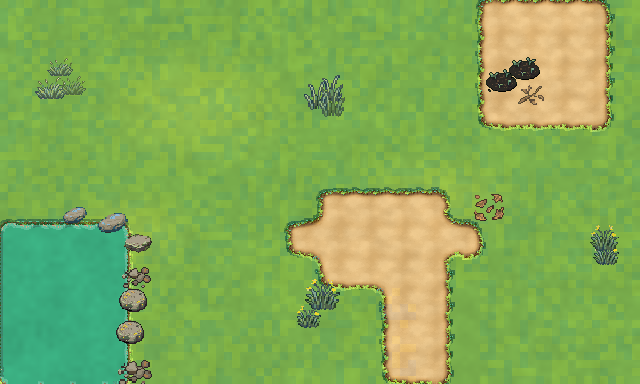
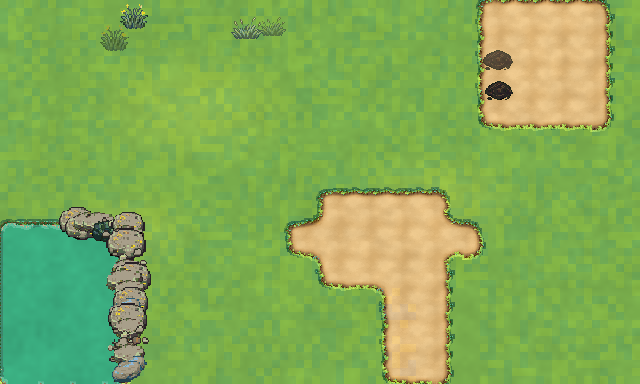
Dressing: ref grammar — clean grass, packed pond rim, no double-dressing
Studied ew_user_ref at zoom: mid-field grass is CLEAN (richness is
the painted mottle, not decals) and water edges carry a continuous
packed band of chunky rocks — masonry, not spaced pebbles.

- scatter: G pool stripped to subtle tufts (dropped flowers, fronds,
  leaf litter mid-field), PATCHES 7->4
- rim pass rewritten: stones every ~8px ON each grass|water edge with
  own 7px packed-spacing; corner cells collect all water edges
- runtime DECAL_CLUSTERS emptied — baked wear already covers those
  zones; runtime decals were double-dressing = leaf clutter
- cut bush_white_flower_v + bush_round_m floaters between fire and hut

diff --git a/tools/tb_ground_scatter.py b/tools/tb_ground_scatter.py
@@ -26,13 +26,12 @@ from PIL import Image
 
 A = "game/assets/pinewatch/decals/"
 
-# family pools: (filename, weight) — wear, not items: no berries,
-# mushrooms or gear mid-field (those read as objects, not texture)
+# family pools: (filename, weight) — wear, not items. The ref's open
+# grass is nearly clean: NO leaf litter / flowers / fronds mid-field
+# (those read as noise); richness comes from the painted mottle alone.
 POOLS = {
     "G": [("tuft_grass_a.png", 6), ("tuft_grass_b.png", 6), ("tuft_grass_c.png", 6),
-          ("tuft_grass_dry.png", 3), ("decal_flowers_white.png", 2),
-          ("decal_dandelion.png", 2), ("decal_fern_frond.png", 2),
-          ("tuft_leaf_litter.png", 2), ("decal_sprout.png", 3)],
+          ("tuft_grass_dry.png", 3), ("decal_sprout.png", 2)],
     "D": [("decal_dirt_mound.png", 3), ("decal_soil_mound.png", 2),
           ("decal_soil_patch.png", 2), ("decal_pebbles.png", 3),
           ("decal_pebbles_moss.png", 1), ("decal_twig.png", 2),
@@ -48,8 +47,8 @@ RIM = [("step_stone_a.png", 3), ("step_stone_b.png", 3),
 TILE = 32
 MIN_DIST = 10          # px inside a patch — tight enough to read as one mass
 PATCH_R = 26           # patch radius
-PATCHES = 7            # localized wear patches — Eastward grammar is
-                       # homogeneous patches on open grass, not confetti
+PATCHES = 4            # localized wear patches — sparse; ref grass is
+                       # clean, wear lives in the mottle + the pond rim
 
 
 def load_decal(name, scale):
@@ -152,8 +151,12 @@ def main():
             arr[y0:y1, x0:x1, 2] += db
     base = Image.fromarray(np.clip(arr, 0, 255).astype(np.uint8))
 
-    # --- rim pass: stones along grass cells that border water ---
-    rim_cells = []
+    # --- rim pass: a PACKED band of chunky stones along every grass|water
+    # edge. The ref rims water with overlapping rocks that read as
+    # masonry, not spaced pebbles — stones sit ON the boundary every
+    # ~8px and may overlap. Own spacing set (7px) so packed-but-not-
+    # piled. Corner cells collect all water edges (no break).
+    rim_edges = []
     for r in range(rows):
         for c in range(cols):
             if mask[r][c] not in "GD":
@@ -161,20 +164,27 @@ def main():
             for dr, dc in ((-1, 0), (1, 0), (0, -1), (0, 1)):
                 nr, nc = r + dr, c + dc
                 if 0 <= nr < rows and 0 <= nc < cols and mask[nr][nc] == "W":
-                    rim_cells.append((c * TILE, r * TILE, dc, dr))
-                    break
-    for bx, by, dc, dr in rim_cells:
-        # stone sits on the grass side, snug against the water line
-        x = bx + (TILE // 2 if dc == 0 else (4 if dc < 0 else TILE - 4))
-        y = by + (TILE // 2 if dr == 0 else (4 if dr < 0 else TILE - 4))
-        x += int(rng.integers(-6, 7)); y += int(rng.integers(-6, 7))
-        x = max(8, min(W - 8, x)); y = max(8, min(H - 8, y))
-        if too_close(x, y) or box_hits_keepout(x, y, 20, 12):
-            continue
-        d = load_decal(pick(RIM, rng), rng.uniform(0.9, 1.15))
-        layer.paste(d, (x - d.width // 2, y - d.height // 2), d)
-        spaced[int(y // MIN_DIST), int(x // MIN_DIST)] = True
-        placed["rim"] += 1
+                    rim_edges.append((c * TILE, r * TILE, dc, dr))
+    rim_pts = []
+    for bx, by, dc, dr in rim_edges:
+        if dc != 0:  # vertical shared edge, stones march along y
+            ex = bx + (0 if dc < 0 else TILE)
+            pts = [(ex, by + t) for t in range(3, TILE, 8)]
+        else:        # horizontal shared edge, stones march along x
+            ey = by + (0 if dr < 0 else TILE)
+            pts = [(bx + t, ey) for t in range(3, TILE, 8)]
+        for x, y in pts:
+            x += int(rng.integers(-3, 4))
+            y += int(rng.integers(-3, 4))
+            x = max(8, min(W - 8, x)); y = max(8, min(H - 8, y))
+            if any((x - px) ** 2 + (y - py) ** 2 < 49 for px, py in rim_pts):
+                continue                       # 7px — packed, not piled
+            if box_hits_keepout(x, y, 18, 10):
+                continue
+            rim_pts.append((x, y))
+            d = load_decal(pick(RIM, rng), rng.uniform(1.0, 1.35))
+            layer.paste(d, (x - d.width // 2, y - d.height // 2), d)
+            placed["rim"] += 1
 
     # --- patch pass: a few homogeneous wear patches, not confetti ---
     centres = []
